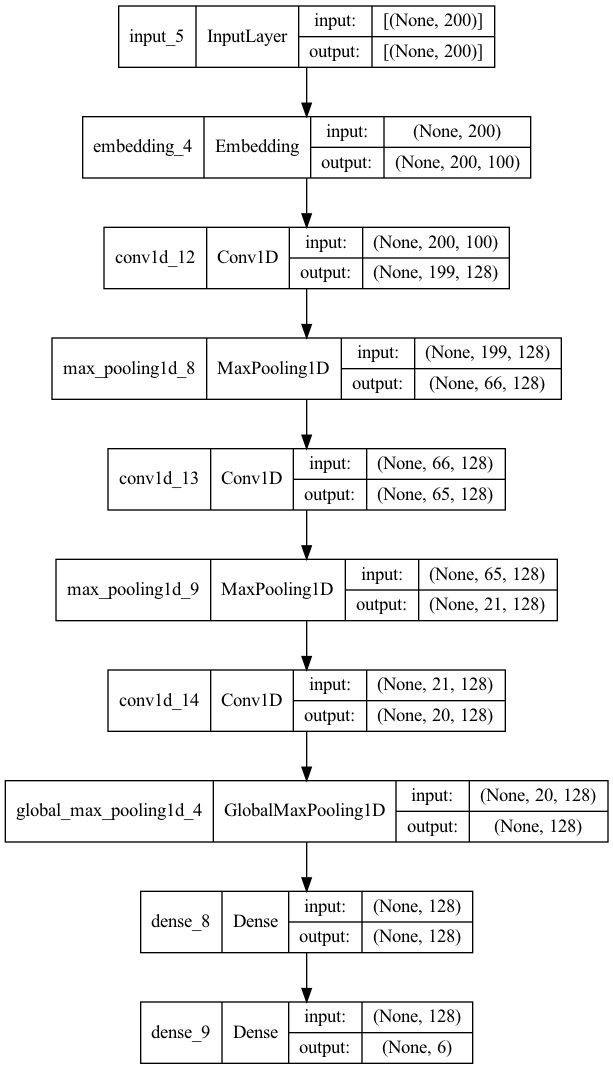
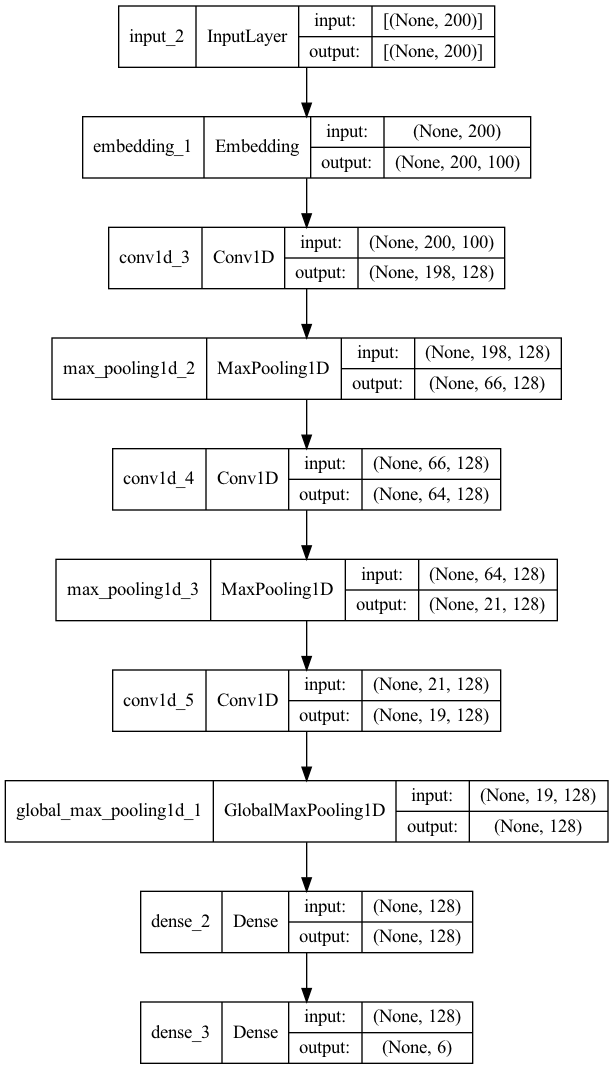
Update

diff --git a/process.py b/process.py
@@ -10,13 +10,14 @@ from keras.models import Model
 from sklearn.metrics import roc_auc_score
 from preprocessing import Preprocessing
 from keras.utils.vis_utils import plot_model
+from matplotlib import pyplot as plt
 
 MAX_SEQUENCE_LENGTH = 200
 MAX_VOCAB_SIZE = 30000
 EMBEDDING_DIM = 100
-VALIDATION_SPLIT = 0.2
+VALIDATION_SPLIT = 0.25
 BATCH_SIZE = 128
-EPOCHS = 20
+EPOCHS = 5
 
 word2vec = {}
 with open(os.path.join('vectors/pl-embeddings-cbow.txt')) as f:
@@ -61,7 +62,6 @@ for word, i in word2idx.items():
     if i < MAX_VOCAB_SIZE:
         embedding_vector = word2vec.get(word)
         if embedding_vector is not None:
-            # words not found in embedding index will be all zeros.
             embedding_matrix[i] = embedding_vector
 
 embedding_layer = Embedding(num_words,
@@ -73,17 +73,17 @@ embedding_layer = Embedding(num_words,
 # CNN model
 input_ = Input(shape=(MAX_SEQUENCE_LENGTH, ))
 x = embedding_layer(input_)
-x = Conv1D(128, 2, activation='relu')(x)
+x = Conv1D(128, 3, activation='relu')(x)
 x = MaxPooling1D(3)(x)
-x = Conv1D(128, 2, activation='relu')(x)
+x = Conv1D(128, 3, activation='relu')(x)
 x = MaxPooling1D(3)(x)
-x = Conv1D(128, 2, activation='relu')(x)
+x = Conv1D(128, 3, activation='relu')(x)
 x = GlobalMaxPooling1D()(x)
 x = Dense(128, activation='relu')(x)
-output = Dense(len(possible_labels), activation='sigmoid')(x)
+output = Dense(len(possible_labels), activation='softmax')(x)
 
 model = Model(input_, output)
-model.compile(loss='binary_crossentropy',
+model.compile(loss='categorical_crossentropy',
               optimizer='rmsprop',
               metrics=['accuracy'])
 
@@ -91,9 +91,28 @@ dot_img_file = 'model_1.png'
 plot_model(model, to_file=dot_img_file, show_shapes=True)
 
 print('Training model...')
-r = model.fit(data,
-              targets,
-              batch_size=BATCH_SIZE,
-              epochs=EPOCHS,
-              validation_split=VALIDATION_SPLIT)
+history = model.fit(data,
+                    targets,
+                    batch_size=BATCH_SIZE,
+                    epochs=EPOCHS,
+                    validation_split=VALIDATION_SPLIT)
+
+# Accuracy
+plt.plot(history.history['accuracy'])
+plt.plot(history.history['val_accuracy'])
+plt.title('Model accuracy')
+plt.ylabel('accuracy')
+plt.xlabel('epoch')
+plt.legend(['train', 'val'], loc='upper left')
+plt.show()
+
+# Loss
+plt.plot(history.history['loss'])
+plt.plot(history.history['val_loss'])
+plt.title('Model loss')
+plt.ylabel('loss')
+plt.xlabel('epoch')
+plt.legend(['train', 'val'], loc='upper left')
+plt.show()
+
 model.save("model/cnn_model")
